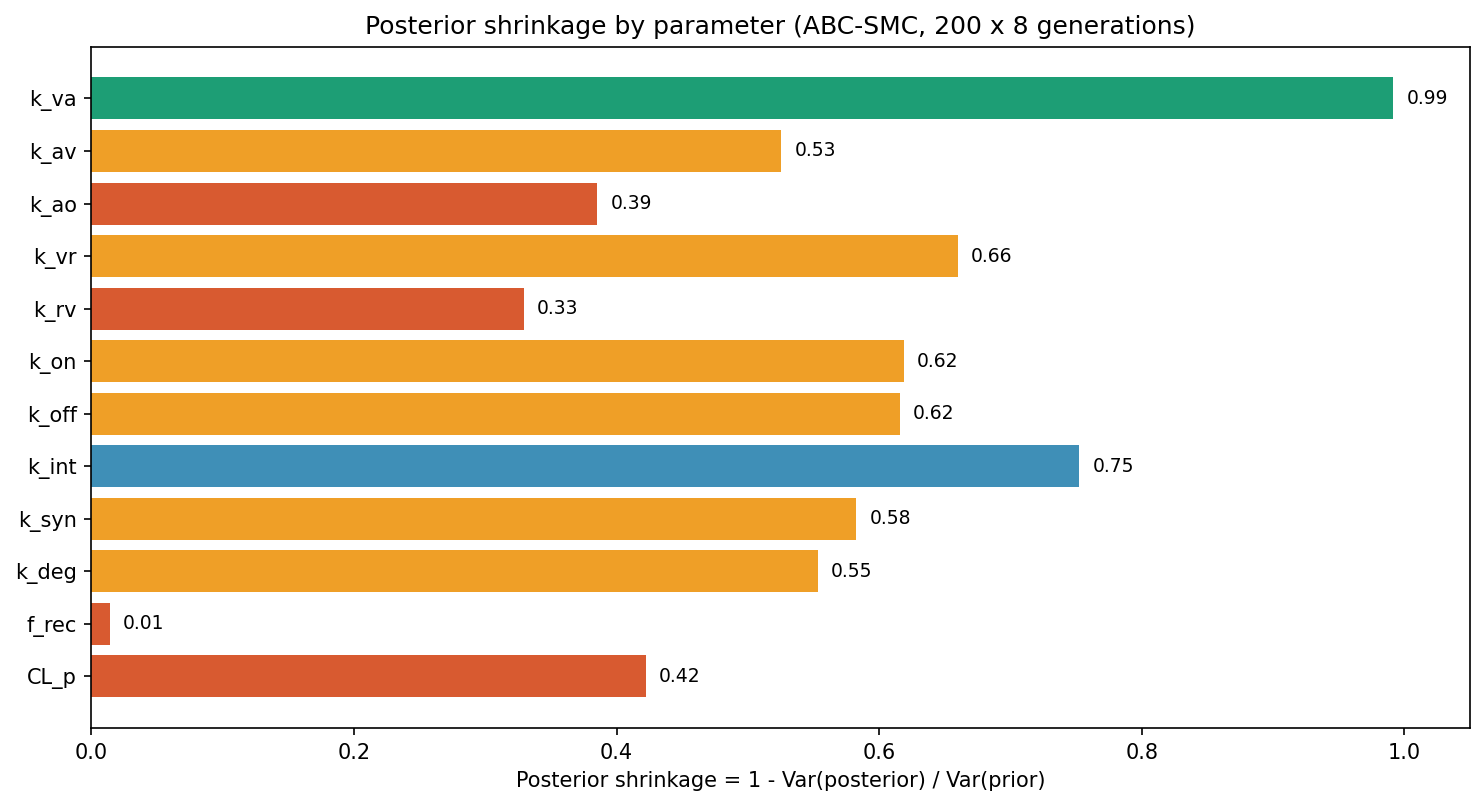
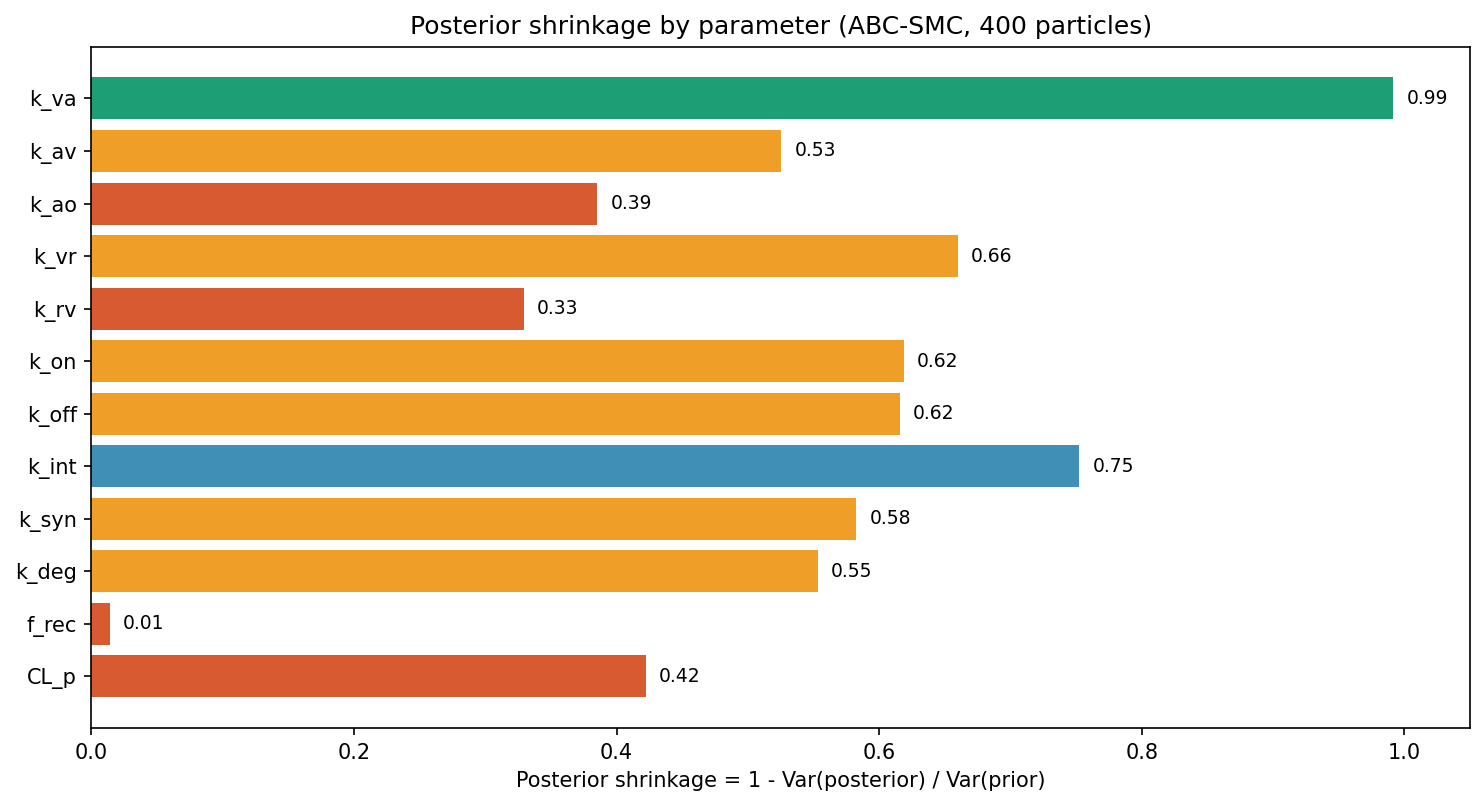
Update README with all figures; ABC-SMC 400 particles; fix shrinkage plot title

Changed region(s): [[0.248, 0.0, 0.8059, 0.062]]

diff --git a/analyses/10_identifiability_abc.py b/analyses/10_identifiability_abc.py
@@ -11,8 +11,8 @@ The posterior concentrates on the truth (all 12 posterior means within ~2x).
 
 Reproducibility note: ABC-SMC is stochastic and the multicore sampler is not
 seeded for bit-for-bit reproducibility, so posterior means, shrinkage values,
-and the fine-grained parameter ranking will vary slightly run-to-run. At 200
-particles the 95% credible intervals are approximate and a few parameters may
+and the fine-grained parameter ranking will vary slightly run-to-run. At these
+particle counts the 95% credible intervals are approximate and a few parameters may
 not cover the truth on any given run (expected for a likelihood-free method at
 this particle count). The reproducible findings are qualitative: diffusion
 parameters (k_va, k_vr) are tightly pinned; binding/turnover parameters carry

diff --git a/README.md b/README.md
@@ -11,17 +11,77 @@ The model is built as a case study demonstrating end-to-end PK/PD modeling rigor
 
 ---
 
-## Key findings
+## Key findings at a glance
 
 - **The format ranking inverts when controlling for molar dose.** At equal mg, the naked peptide wins on molar count; at equimolar dose, the Fc-fusion delivers ~75% more integrated target engagement, driven by FcRn-mediated retinal residence extension.
+- **Target abundance R₀ is the dominant uncertainty** (Sobol total-order index ~0.48, highest of any parameter, with vitreous-to-retina diffusion k_vr close behind at ~0.43).
+- **Slow off-rates do not rescue sustained PD** — complex internalization, not dissociation, is the rate-limiting sink once k_off < k_int.
+- **Dose should scale by vitreous volume (~2.7×), not body weight (~23×).**
+- **Three identifiability methods give a layered picture** — structural (Lie derivatives), profile likelihood, and ABC-SMC posterior shrinkage are complementary, and agree that the binding/turnover parameters (k_off, k_int) are the least constrained.
 
-- **Target abundance R₀ is the dominant uncertainty.** Sobol total-order sensitivity index for R₀ is ~0.48, the highest of any parameter, with vitreous-to-retina diffusion (k_vr) close behind at ~0.43. Measuring R₀ in iPSC-derived microglia is among the highest-leverage experiments in the characterization roadmap.
+The sections below walk through each result with the corresponding figure.
 
-- **Slow off-rates do not rescue sustained PD.** Sweeping k_off across three orders of magnitude shows peak target occupancy plateauing once k_off < k_int. Complex internalization, not dissociation, is the rate-limiting sink — affinity maturation alone cannot deliver durable target engagement.
+---
 
-- **Dose should scale by vitreous volume (~2.7×), not body weight (~23×).** Cross-species translation shows ocular half-life is governed by intrinsic rate constants, not absolute volume. Standard mAb body-weight allometry would over-dose by an order of magnitude.
+## Results
 
-- **Three identifiability methods give a layered picture.** Structural rank test (Lie derivatives) shows 11 of 12 parameters are structurally identifiable from vitreous + target-occupancy data — only systemic clearance CL_p is not, since plasma is unobserved. Profile likelihood shows the binding off-rate k_off has the widest confidence interval of the profiled parameters. ABC-SMC concentrates the posterior on the true values — all 12 posterior means land within roughly a factor of two of the truth — with binding/turnover parameters showing more posterior spread than the tightly-pinned diffusion parameters. (At this particle count the 95% credible intervals are approximate; a few may not cover the truth on a given run, as expected for a likelihood-free method — scale to 1000+ for tighter coverage.) The methods are complementary: structural identifiability is binary and exact, profile likelihood and shrinkage quantify how well realistic data constrain each parameter.
+### 1. Dosing basis flips the format ranking
+
+The headline result. The hero figure at the top of this README shows target occupancy under two dosing regimens. At **equal mg** dose the naked peptide gives the highest peak occupancy, purely because a fixed mass of a small molecule delivers more molecules. At **equimolar** dose the ranking inverts: the Fc-fusion delivers **+75.7%** integrated target engagement (AUC of occupancy) over the naked peptide, driven by FcRn-mediated extension of retinal residence time. The program decision therefore depends on whether the binder can be matured to achieve target potency at a lower molar dose — not on simple "which format is better" reasoning.
+
+### 2. Global sensitivity prioritizes which biology to measure
+
+![Sobol sensitivity indices](results/plots/sobol_indices.png)
+
+*Sobol first-order (S₁) and total-order (S_T) indices for two PD readouts. Target abundance R₀ dominates; aqueous outflow k_ao has an index near zero.*
+
+A Sobol global sensitivity analysis (896 model evaluations on six parameters with log-uniform priors) decomposes the variance in integrated target occupancy. **R₀ (target abundance) is the single dominant driver** (S_T ≈ 0.48), with vitreous-to-retina diffusion k_vr close behind (S_T ≈ 0.43). The actionable negative finding: **k_ao (aqueous outflow) has S_T ≈ 0** — once outflow exceeds the rate of vitreous-to-aqueous diffusion, which is always true physiologically, it stops affecting the output. The roadmap implication is to measure R₀ first (in iPSC-derived microglia) and not to invest in precise aqueous-outflow characterization.
+
+### 3. Internalization, not dissociation, limits sustained PD
+
+![k_off sweep](results/plots/koff_sweep.png)
+
+*Sweeping k_off across three orders of magnitude (k_on held constant — the affinity-maturation scenario) for a 5 mg q8w human regimen. Peak occupancy plateaus once k_off drops below k_int.*
+
+Multi-dose human simulation shows that no format sustains meaningful trough occupancy at clinically plausible doses. Sweeping the off-rate down (the affinity-maturation lever) reveals **a plateau: once k_off < k_int, slowing dissociation further buys nothing**, because complex internalization has become the rate-limiting sink. Durable target engagement therefore requires either reducing k_int (a structure-activity question) or designing for transient occupancy — affinity maturation alone is insufficient.
+
+### 4. Translation scales with vitreous volume, not body weight
+
+![Cross-species translation](results/plots/human_translation.png)
+
+*Top: iso-concentration vitreous PK and PD scaled from rabbit (dashed) to human (solid). Bottom: human dose-response on peak occupancy and duration above the 30% threshold.*
+
+Scaling to human ocular volumes shows that vitreous half-life is set by intrinsic rate constants (k_va, k_ao), which are drug properties, not absolute volume. The human eye is ~2.7× larger than the rabbit eye, while plasma volume is ~15× larger — so **dose should scale by the vitreous-volume ratio (~2.7×), not by body weight (~23×)**. Standard mAb body-weight allometry would over-dose by an order of magnitude.
+
+### 5a. Structural identifiability — what a target-occupancy assay buys
+
+![Structural identifiability summary](results/plots/identifiability_summary.png)
+
+*Each parameter's structural identifiability under two observation scenarios, and the experiment that best constrains it. Adding a target-occupancy readout rescues 8 of 12 parameters.*
+
+A Lie-derivative observability rank test (the SIAN methodology, implemented with JAX automatic differentiation) asks whether each parameter can be uniquely recovered from noise-free data. With **vitreous concentration alone, only 3 of 12 parameters are identifiable**; the rest trade off in unresolvable combinations. **Adding a target-occupancy readout rescues 8 parameters, bringing 11 of 12 to identifiable** — only systemic clearance CL_p remains non-identifiable, and only because plasma is never observed. This is the single highest-leverage experimental-design conclusion: a TO assay is worth far more than any additional PK sampling.
+
+### 5b. Practical identifiability — profile likelihood
+
+![Profile likelihood](results/plots/profile_likelihood.png)
+
+*Profile likelihood for four mechanistically key parameters. The dashed line marks the 95% confidence threshold (ΔNLL = 1.92); shaded bands show the resulting confidence interval.*
+
+Structural identifiability is binary and assumes perfect data. Profile likelihood (Raue et al. 2009) asks how well *realistic* data constrain each parameter, using a synthetic 7-timepoint study with 15% noise on paired Cv + TO observations. Of the four parameters profiled, **k_off has the widest confidence interval (~2.5× range)**, because the binding off-rate trades off against internalization k_int in setting complex residence time. k_va is essentially pinpointed; f_rec and k_int are intermediate.
+
+### 5c. Bayesian posterior shrinkage — ABC-SMC
+
+![ABC-SMC posterior vs prior](results/plots/abc_posterior_vs_prior.png)
+
+*Posterior (green) vs prior (grey) density for all 12 parameters; the dashed line is the true value. Diffusion parameters collapse to sharp peaks at the truth; binding/turnover and unobserved-route parameters stay closer to their priors.*
+
+The third leg of the identifiability analysis fits all 12 parameters jointly via Approximate Bayesian Computation with Sequential Monte Carlo (PyABC). ABC-SMC is used instead of gradient-based MCMC because it is likelihood-free, embarrassingly parallel, and runs on the same stiff-ODE solver used elsewhere. **The posterior concentrates on the true values — all 12 posterior means land within roughly a factor of two of the truth.** Diffusion parameters (k_va, k_vr) are tightly pinned; binding/turnover parameters and the unobserved-route parameters (f_rec recycling, CL_p clearance) retain substantial prior-driven spread, consistent with the structural and profile-likelihood results.
+
+![ABC-SMC posterior shrinkage](results/plots/abc_shrinkage.png)
+
+*Posterior shrinkage (1 − Var_posterior / Var_prior) per parameter. Higher means the data narrowed the parameter more, relative to its prior.*
+
+The shrinkage bar chart summarizes how much each parameter's marginal distribution narrowed. **A methodological caveat:** at modest particle counts the 95% credible intervals are approximate and a few parameters may not cover the truth on any given run, as expected for a likelihood-free method (scale to 1000+ particles for tighter coverage). The fine-grained shrinkage *ranking* among well-constrained parameters carries Monte Carlo noise and shifts run-to-run, so the reproducible findings are the structural result (CL_p non-identifiable) and the profile-likelihood result (k_off widest CI), with ABC providing the joint-posterior picture rather than precise per-parameter rankings. Note also that high apparent shrinkage for CL_p, when it appears, is an SMC perturbation-kernel artifact, not data-driven learning — CL_p governs only the unobserved plasma compartment.
 
 ---
 
@@ -39,7 +99,9 @@ ocular-tmdd-format-selection/
 │   ├── tmdd_model.py                  Python reference implementation
 │   └── tmdd_model.stan                Stan model (production Bayesian fallback)
 ├── analyses/                          Numbered analysis scripts (run in order)
-│   ├── 03_simulate.R                  Forward simulation of all three formats
+│   ├── 00_generate_synthetic_data.py  Synthetic IVT dataset for Phase B/C
+│   ├── 03_calibration.py              Verify k_va vs Park 2016 half-lives
+│   ├── 03_simulate.R                  Forward simulation (R reference)
 │   ├── 04_sensitivity_sobol.py        Global variance decomposition
 │   ├── 05_dose_response.py            Equimolar vs equal-mg comparison
 │   ├── 06_human_translation.py        Cross-species scaling
@@ -48,11 +110,17 @@ ocular-tmdd-format-selection/
 │   ├── 09_identifiability_profile.py  Phase B: profile likelihood
 │   └── 10_identifiability_abc.py      Phase C: ABC-SMC Bayesian
 ├── data/                              Synthetic IVT study data
-├── results/                           Plots, tables, posterior samples
+├── results/
+│   ├── plots/                         8 figures (shown above)
+│   ├── tables/                        CSV/JSON summaries
+│   └── posteriors/                    ABC-SMC posterior samples
 ├── tests/                             Sanity checks
 ├── run_all.py                         One-command pipeline
 └── requirements.txt                   Pinned Python dependencies
 ```
+
+The eight figures above are generated into `results/plots/` by the pipeline:
+`equimolar_inversion.png` (§1), `sobol_indices.png` (§2), `koff_sweep.png` (§3), `human_translation.png` (§4), `identifiability_summary.png` (§5a), `profile_likelihood.png` (§5b), `abc_posterior_vs_prior.png` and `abc_shrinkage.png` (§5c).
 
 ---
 